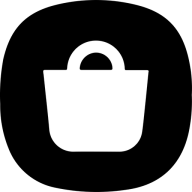
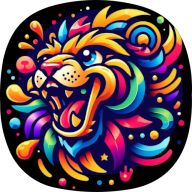
changes agregar cambios de marca

diff --git a/pages/cart.jsx b/pages/cart.jsx
@@ -275,8 +275,11 @@ export default function CartPage() {
         <Center>
           <ColumnsWrapper>
             <WhiteBoxCart>
-              <h1>Thanks for your order!</h1>
-              <p>We will email you when your order will be sent.</p>
+              <h1>Gracias por tu compra!</h1>
+              <p>
+                Te enviaremos un email cuando tu paquete este listo para
+                enviarse.
+              </p>
             </WhiteBoxCart>
           </ColumnsWrapper>
         </Center>
@@ -381,36 +384,36 @@ export default function CartPage() {
                           </InputDisabled>
 
                           <TipSpan>
-                            If the previous information is incorrect, you can
-                            edit it by clicking on the Edit Order Information
-                            button
+                            Si la información anterior es incorrecta, puedes
+                            editarla haciendo clic en el botón Editar
+                            Información del Pedido
                           </TipSpan>
 
                           <EditButton black={1} block={1} onClick={goToAccount}>
-                            Edit Order Information
+                            Editar Información del Pedido
                           </EditButton>
                           <hr></hr>
                           <ContinueButton
                             primary={1}
                             block={1}
                             onClick={goToPayment}>
-                            Continue to payment
+                            Continuar con el Pago
                           </ContinueButton>
                         </>
                       ) : (
                         <>
                           <TipSpan>
-                            Please make sure to have all the location fields
-                            filled out for the successful delivery of our
-                            products to your destination.
+                            Por favor, asegúrate de completar todos los campos
+                            de ubicación para la entrega exitosa de nuestros
+                            productos a tu destino
                             <br />
                             <br />
-                            Once you have filled out the requested information,
-                            you will be able to proceed with your purchase.
+                            Una vez que hayas completado la información
+                            solicitada, podrás proceder con tu compra
                           </TipSpan>
                           <hr></hr>
                           <Button black={1} block={1} onClick={GoToAccount}>
-                            Go to Account
+                            Ir a la Cuenta
                           </Button>
                         </>
                       )}
@@ -419,7 +422,8 @@ export default function CartPage() {
                   {!session && (
                     <>
                       <p>
-                        To continue with the payment process, please log in.
+                        Para continuar con el proceso de pago, por favor inicia
+                        sesión
                       </p>
                       <Button primary={1} onClick={login} block={true}>
                         Login

diff --git a/components/Header.jsx b/components/Header.jsx
@@ -162,7 +162,9 @@ const StyledNav = styled.nav`
   height: 100vh;
   background-color: #222;
   padding: 60px 20px 20px;
-  transition: right 0.4s ease-in-out, box-shadow 0.4s ease-in-out;
+  transition:
+    right 0.4s ease-in-out,
+    box-shadow 0.4s ease-in-out;
   z-index: 11;
 
   ${(props) =>
@@ -183,7 +185,9 @@ const StyledNav = styled.nav`
     width: 100%;
     gap: 20px;
     box-shadow: none;
-    transition: right 0s ease-in-out, box-shadow 0s ease-in-out;
+    transition:
+      right 0s ease-in-out,
+      box-shadow 0s ease-in-out;
     padding: 20px;
   }
 
@@ -423,7 +427,7 @@ export default function Header({ black, name }) {
         isFixedBottom={isFixedBottom}>
         <Center>
           <Wrapper isFixedTop={isFixedTop} isFixedBottom={isFixedBottom}>
-            <Logo href={'/'}>Ecommerce</Logo>
+            <Logo href={'/'}>Mercado Kognii</Logo>
             <StyledNav
               ref={ref}
               mobileActiveNav={mobileActiveNav}
@@ -431,7 +435,7 @@ export default function Header({ black, name }) {
               isFixedBottom={isFixedBottom}
               session={session}>
               <Logo nav={1} href={'/'}>
-                Ecommerce
+                Mercado Kognii
               </Logo>
               <NavLink href={'/'} aria-label="go to home page">
                 Inicio
@@ -543,8 +547,4 @@ export default function Header({ black, name }) {
     </>
   );
 }
-
-
-
-
 

diff --git a/pages/index.jsx b/pages/index.jsx
@@ -41,10 +41,10 @@ export default function HomePage({
   return (
     <>
       <Head>
-        <title>Demo Ecommerce</title>
+        <title>Mercado Kognii</title>
         <meta
           name="description"
-          content="Demo Ecommerce es un modelo de tienda en línea dirigido para pequeños vendedores que quieren promocionar sus productos por internet a bajo costo"
+          content="Mercado Kognii es un modelo de tienda en línea dirigido para pequeños vendedores que quieren promocionar sus productos por internet a bajo costo"
           key="desc"
         />
       </Head>
@@ -179,3 +179,4 @@ export async function getServerSideProps(ctx) {
     console.error('Error:', error);
   }
 }
+

diff --git a/pages/search.jsx b/pages/search.jsx
@@ -237,7 +237,7 @@ export default function SearchPage({ wishedProducts }) {
             </div>
           )}
           {!isLoading && phrase !== '' && products.length === 0 && (
-            <h2>No products found for query &quot;{phrase}&quot;</h2>
+            <h2>No se han encontrado productos para &quot;{phrase}&quot;</h2>
           )}
           {isLoading && <Spinner fullWidth />}
           {!isLoading && products.length > 0 && (
